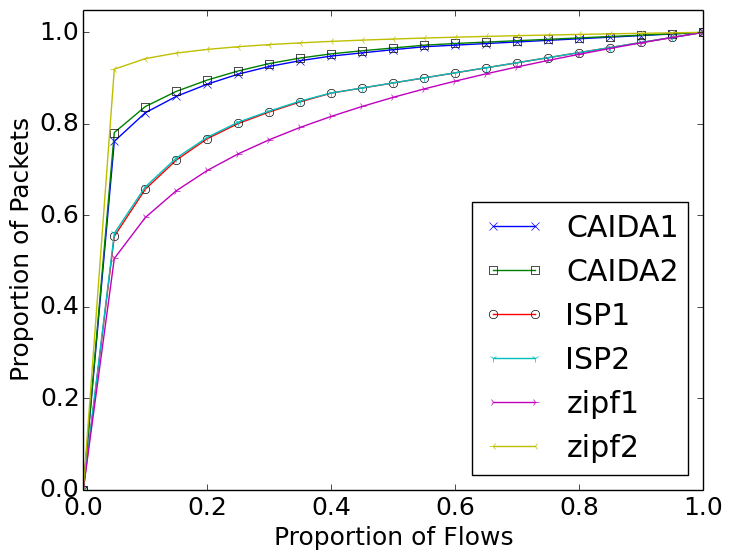
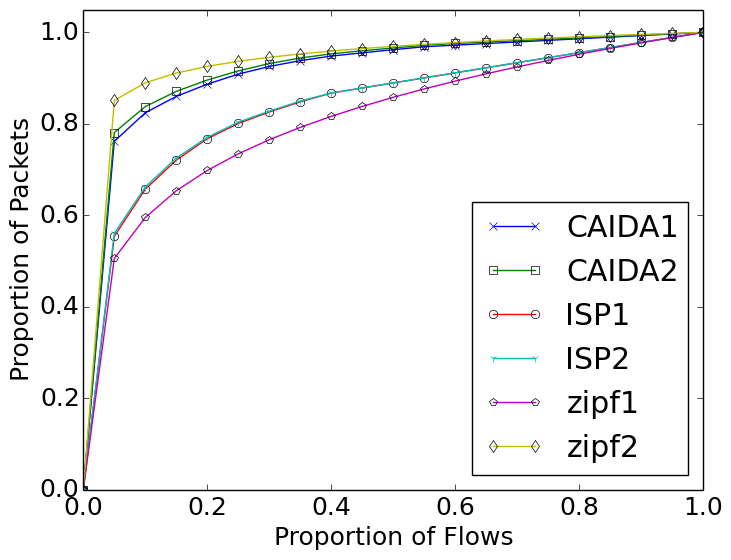
Automatic uploading. No comments!

diff --git a/figures/exp84507/plot.py b/figures/exp84507/plot.py
@@ -36,8 +36,8 @@ if __name__ == "__main__":
 	plt.plot(idx2, cdf2, label = "CAIDA2", marker = "s", mfc="none")
 	plt.plot(idx3, cdf3, label = "ISP1", marker = "o", mfc="none")
 	plt.plot(idx4, cdf4, label = "ISP2", marker = "1", mfc="none")
-	plt.plot(idx5, cdf5, label = "zipf1", marker = "2", mfc="none")
-	plt.plot(idx6, cdf6, label = "zipf2", marker = "3", mfc="none")
+	plt.plot(idx5, cdf5, label = "zipf1", marker = "p", mfc="none")
+	plt.plot(idx6, cdf6, label = "zipf2", marker = "d", mfc="none")
 #	plt.plot(range(5), are_hw, label = "Hardware", marker = "o")
 #	plt.legend(bbox_to_anchor=(0.0, 1.02, 1.0, 0.102), loc = 3, ncol = 2, mode = "expand", borderaxespad = 0.0)
 	plt.legend(loc = 4)
